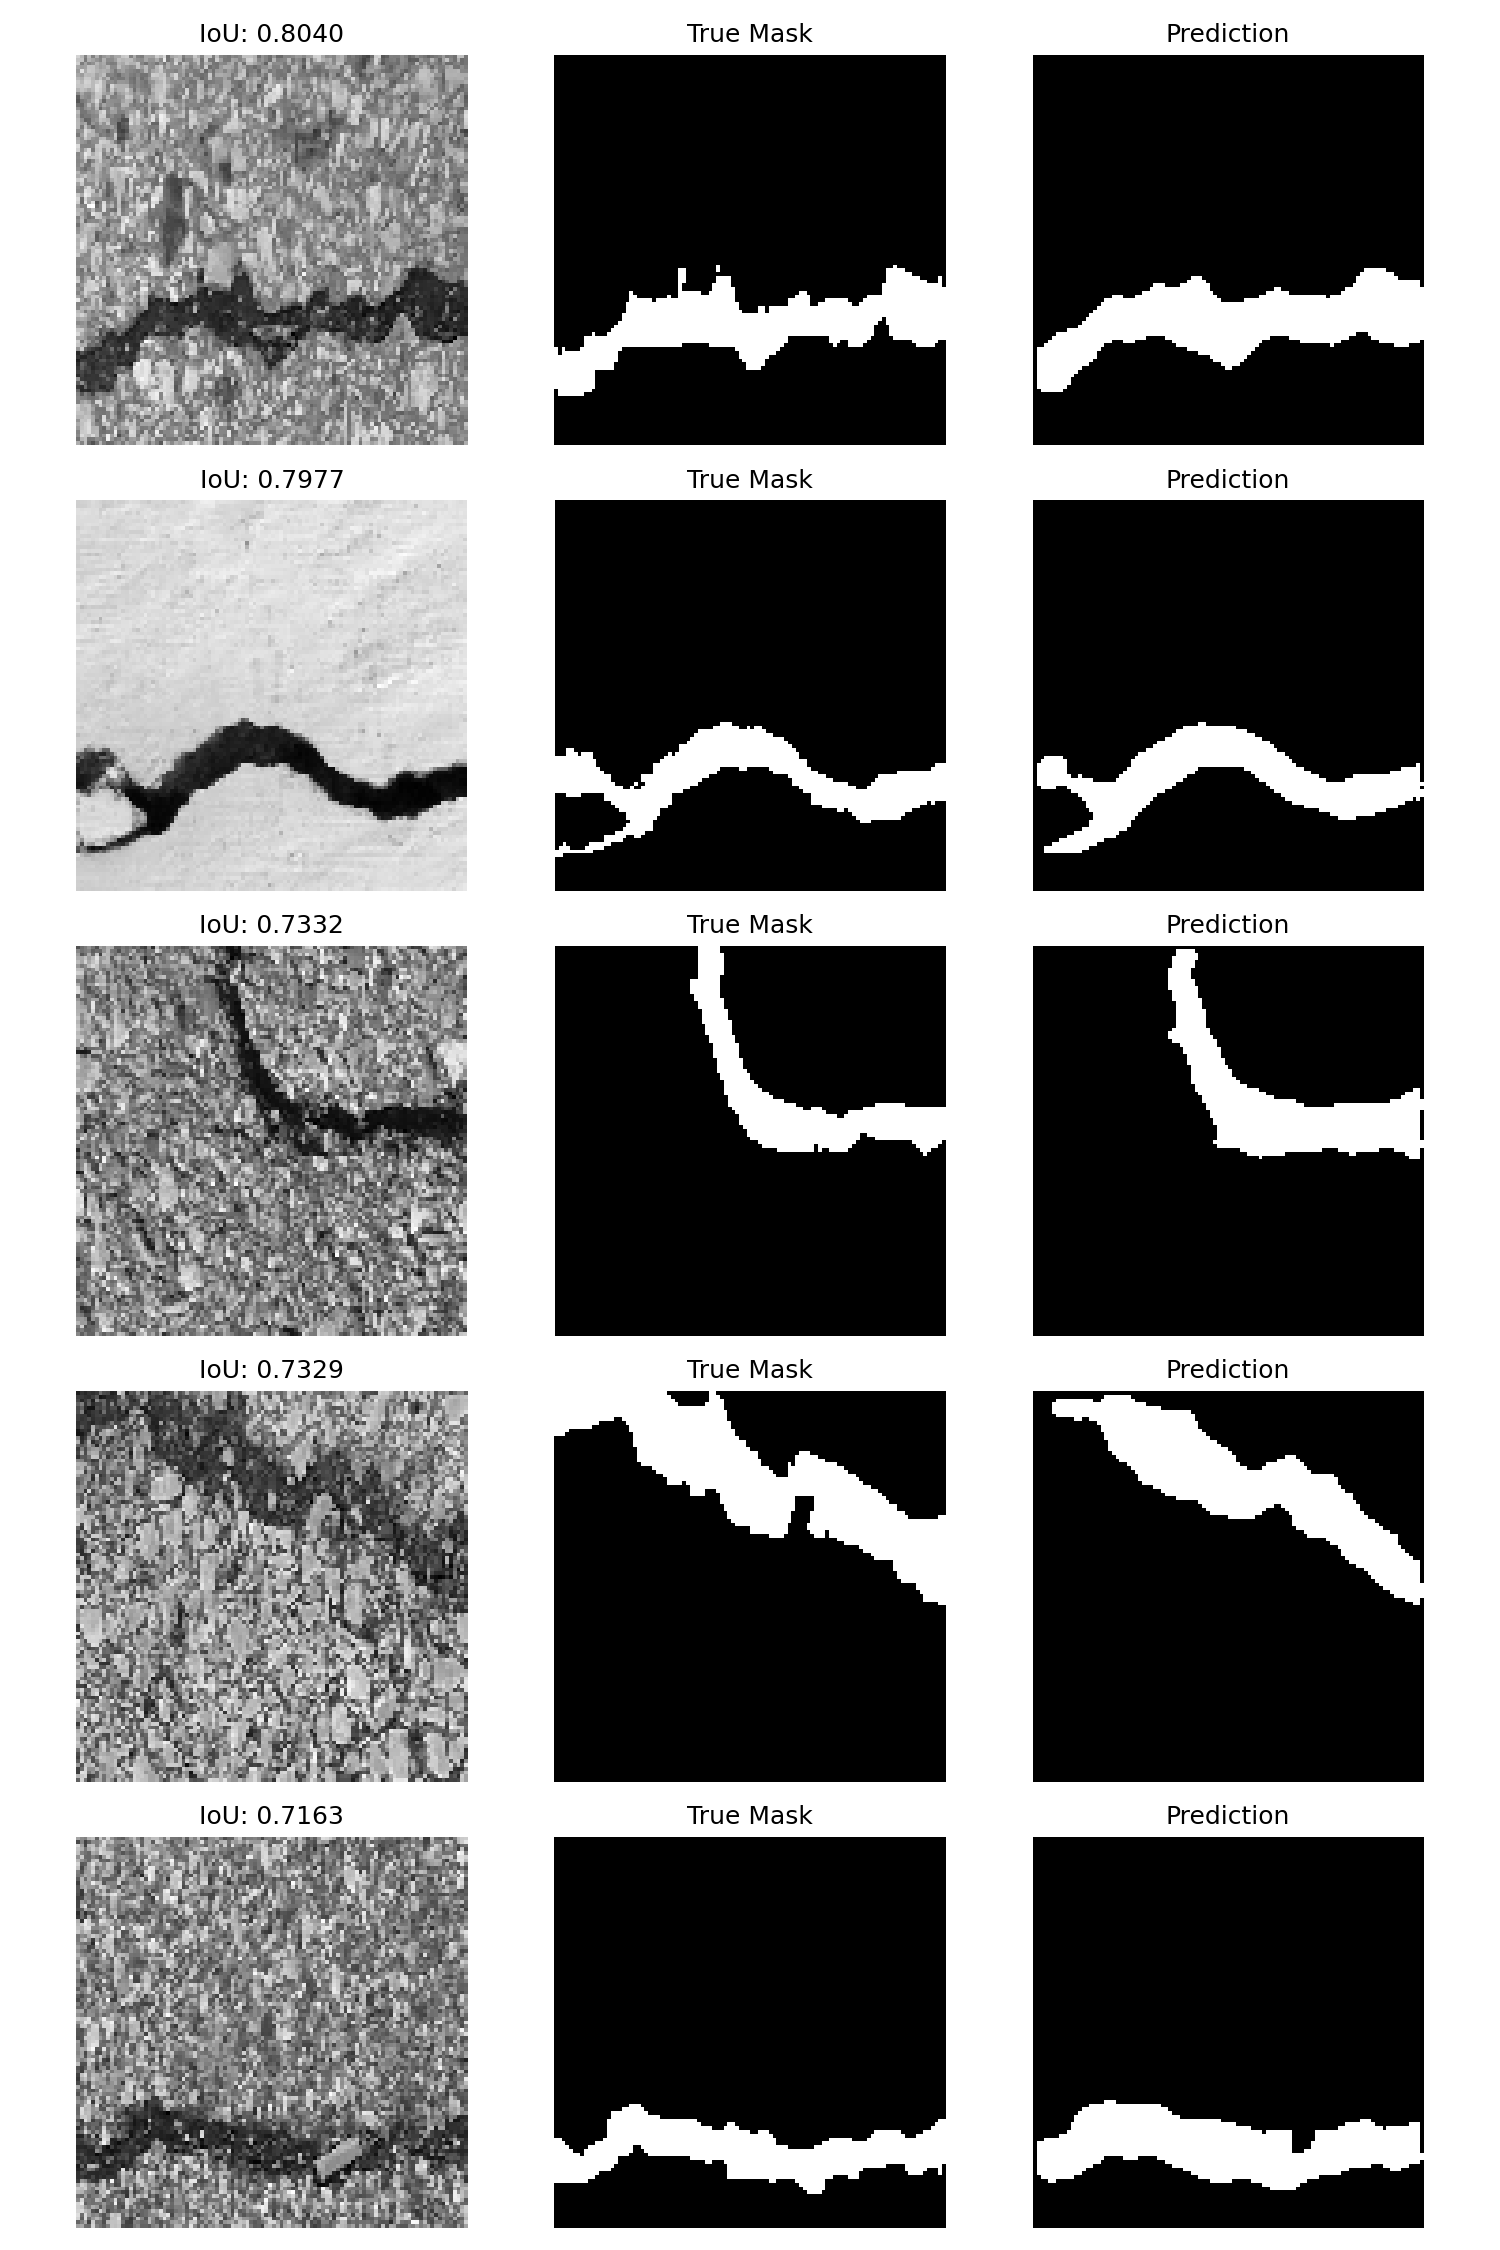
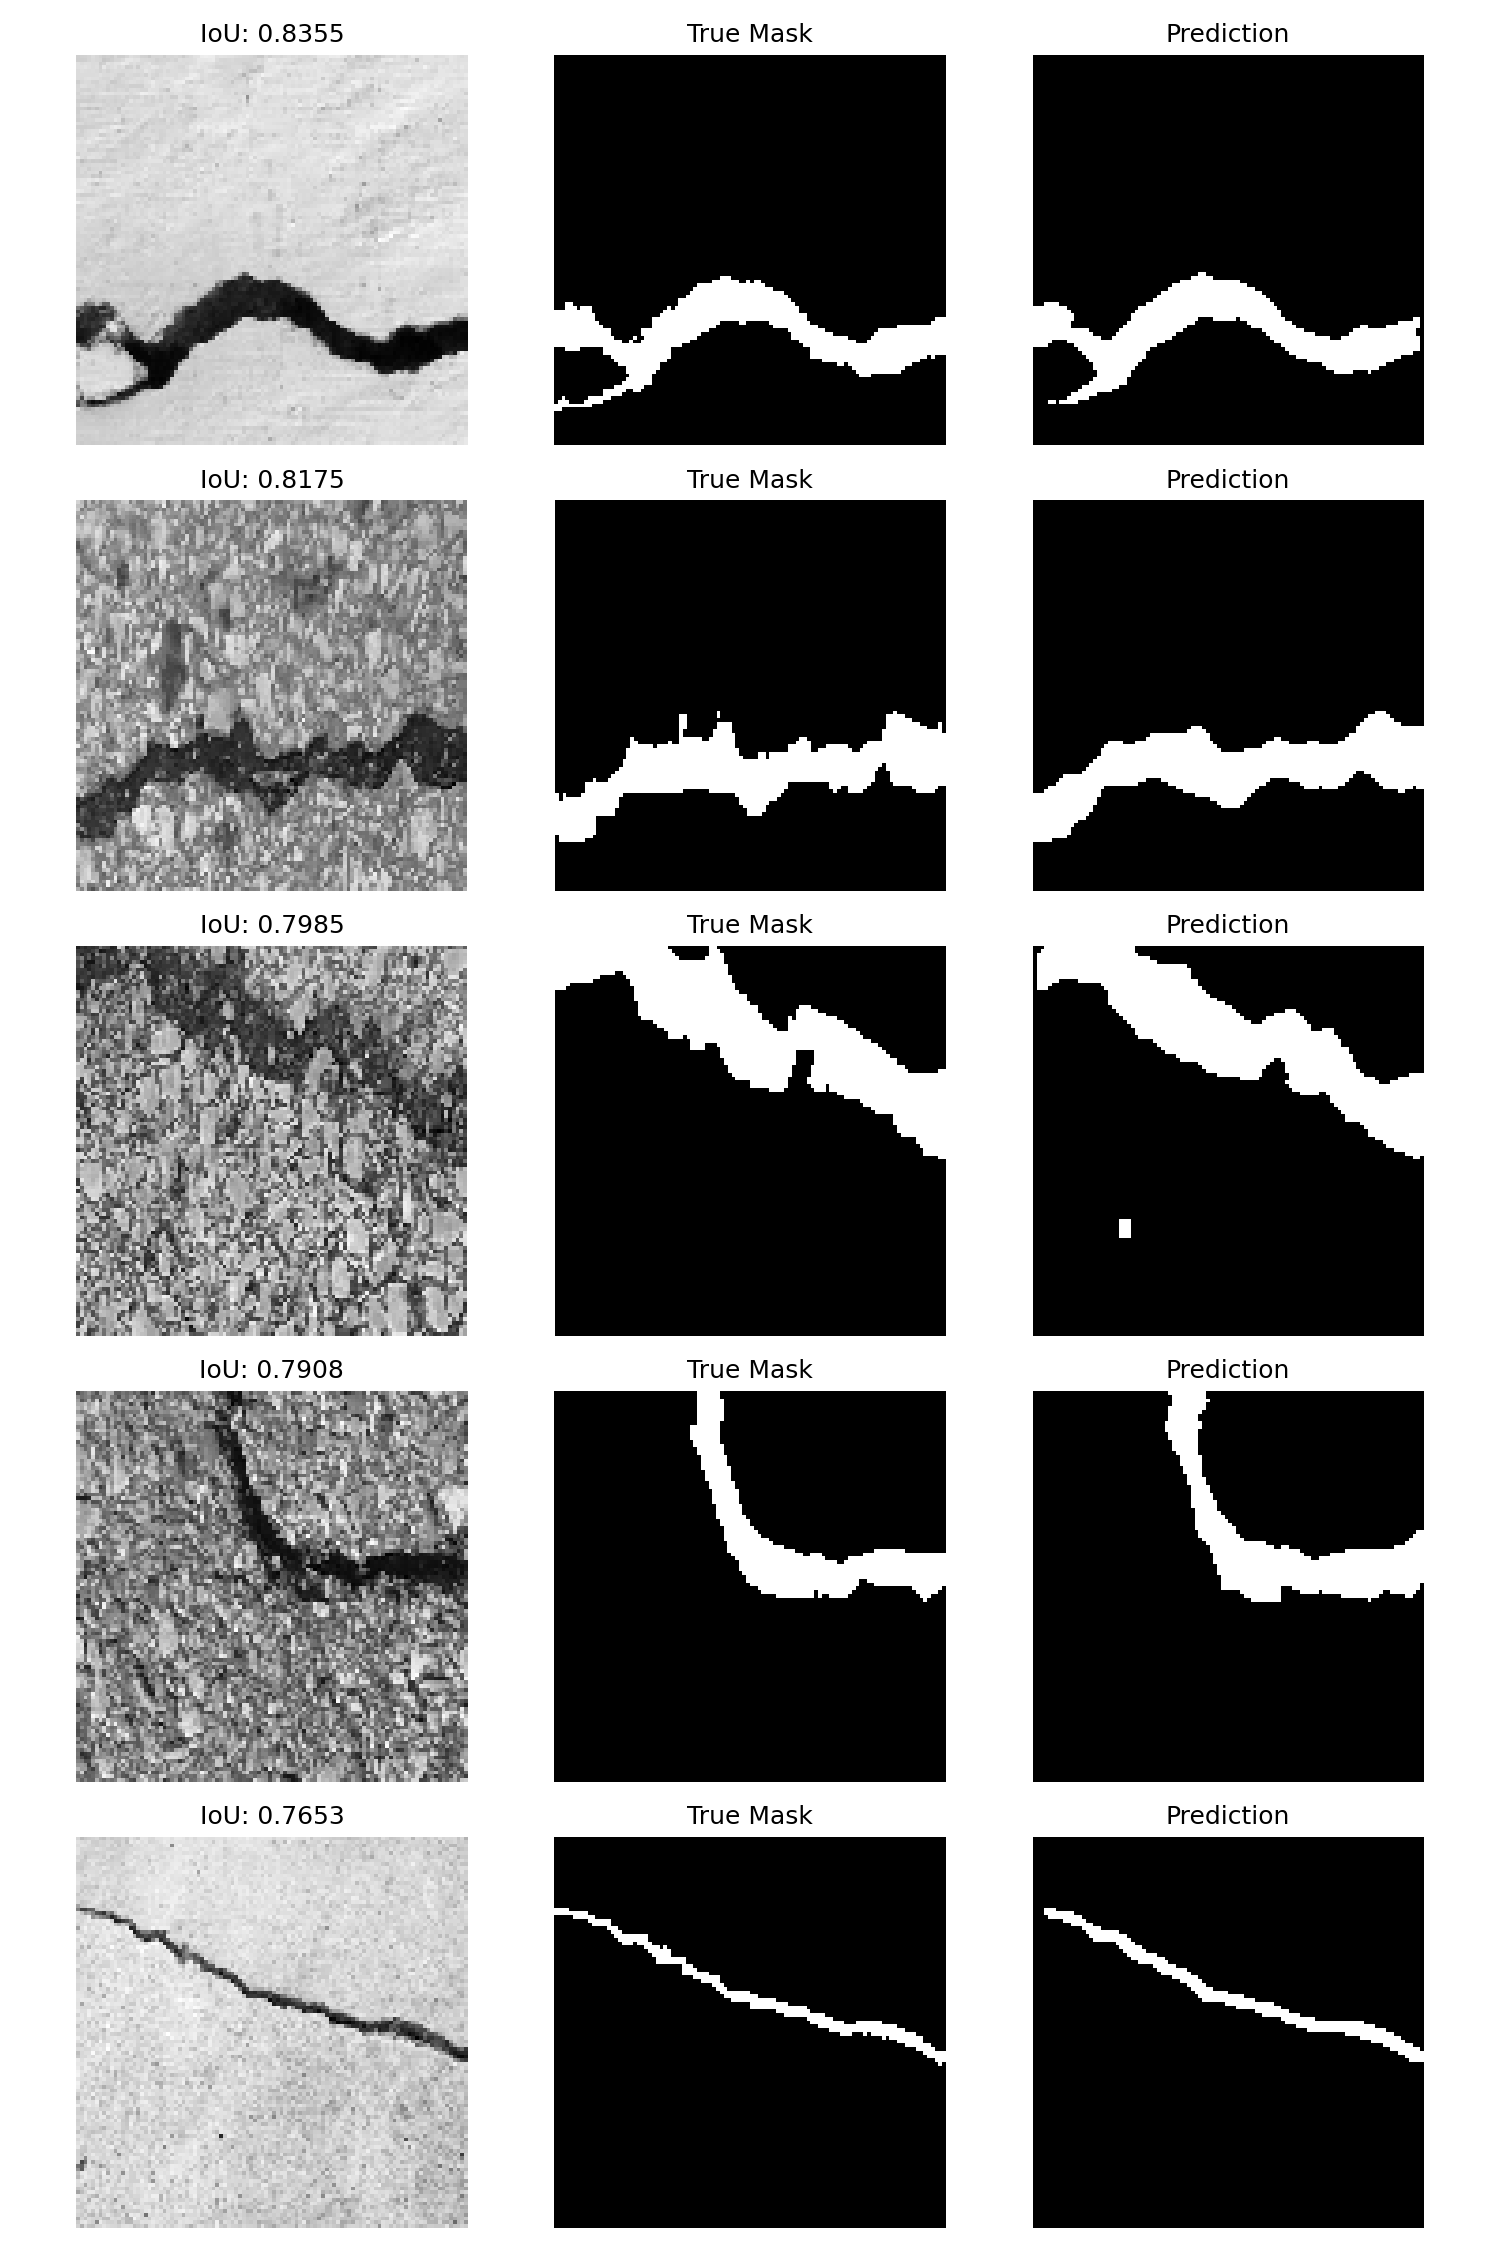
completed initial student training

diff --git a/NanoCrackSeg/train_student_pai.py b/NanoCrackSeg/train_student_pai.py
@@ -5,9 +5,14 @@ import matplotlib.pyplot as plt
 import torch
 import torch.nn as nn
 import torch.nn.functional as F
+from dotenv import load_dotenv
 from nano_crack_seg import NanoCrackSeg, rfkd_loss
+from perforatedai import globals_perforatedai as GPA
+from perforatedai import utils_perforatedai as UPA
 from torch.utils.data import DataLoader
 from tqdm import tqdm
+
+load_dotenv()
 
 TEACHER_PATH = Path(__file__).parent.parent / "UNet Teacher Model"
 sys.path.insert(0, str(TEACHER_PATH))
@@ -138,18 +143,14 @@ def save_prediction_samples(samples: list, save_dir: Path, filename: str) -> Non
     plt.close(fig)
 
 
-def train_student(
+def train_student_pai(
     dataset_dir: Path,
     teacher_weights_path: Path,
     save_dir: Path,
-    epochs: int = 150,
-    batch_size: int = 32,
     lr: float = 1e-3,
-    patience: int = 20,
 ) -> NanoCrackSeg:
     save_dir.mkdir(parents=True, exist_ok=True)
 
-    # Optimized for M3 Pro
     device = torch.device("mps" if torch.backends.mps.is_available() else "cpu")
     print(f"Training on: {device}")
 
@@ -158,30 +159,46 @@ def train_student(
     )
     train_loader = DataLoader(
         train_dataset,
-        batch_size=batch_size,
+        batch_size=32,
         shuffle=True,
         num_workers=4,
         pin_memory=False,
     )
-    val_loader = DataLoader(val_dataset, batch_size=batch_size, shuffle=False)
+    val_loader = DataLoader(val_dataset, batch_size=32, shuffle=False)
 
     teacher = UNet(in_channels=1, base_filters=48).to(device).eval()
     teacher.load_state_dict(torch.load(teacher_weights_path, map_location=device))
     for p in teacher.parameters():
         p.requires_grad = False
 
-    student = NanoCrackSeg().to(device)
+    # --- PAI: track BatchNorm2d layers (inside DWConvBlock.dw_conv[2]) ---
+    # They are wrapped inside the Sequential already so just tracking is sufficient
+    GPA.pc.append_modules_to_track([nn.BatchNorm2d])
+    GPA.pc.set_unwrapped_modules_confirmed(True)
+
+    # --- PAI: perforate before moving to device ---
+    student = NanoCrackSeg()
+    student = UPA.perforate_model(
+        student, save_name="PAI_student", maximizing_score=True
+    )
+    student = student.to(device)
+
     adaptors = FeatureAdaptors().to(device)
 
     t_hooks = FeatureExtractor(teacher, ["enc1", "enc2", "enc3"])
     s_hooks = FeatureExtractor(student, ["enc1", "enc2", "enc3"])
 
-    optimizer = torch.optim.AdamW(
-        list(student.parameters()) + list(adaptors.parameters()),
-        lr=lr,
-        weight_decay=1e-2,
+    # --- PAI: optimizer for student only (adaptors are not perforated) ---
+    # Note: weight_decay removed — PAI docs warn it can interfere with dendrite learning
+    GPA.pai_tracker.set_optimizer(torch.optim.AdamW)
+    GPA.pai_tracker.set_scheduler(torch.optim.lr_scheduler.ReduceLROnPlateau)
+    optimArgs = {"params": list(student.parameters()), "lr": lr}
+    schedArgs = {"mode": "max", "patience": 5}
+    optimizer, _ = GPA.pai_tracker.setup_optimizer(
+        student, optimArgs, schedArgs
     )
-    scheduler = torch.optim.lr_scheduler.CosineAnnealingLR(optimizer, T_max=epochs)
+    # Separate optimizer for adaptors so PAI doesn't see untracked params
+    adaptors_optimizer = torch.optim.AdamW(adaptors.parameters(), lr=lr)
 
     history = {
         k: []
@@ -196,19 +213,22 @@ def train_student(
             "val_map",
         ]
     }
-    best_val_f1 = 0.0
-    patience_counter = 0
 
-    for epoch in range(epochs):
+    # --- PAI: while(True) loop instead of fixed epoch range ---
+    epoch = -1
+    while True:
+        epoch += 1
+
         student.train()
         adaptors.train()
         train_loss_accum = 0.0
 
         for images, masks in tqdm(
-            train_loader, desc=f"Epoch {epoch + 1}/{epochs} [Train]", leave=False
+            train_loader, desc=f"Epoch {epoch + 1} [Train]", leave=False
         ):
             images, masks = images.to(device), masks.to(device)
             optimizer.zero_grad(set_to_none=True)
+            adaptors_optimizer.zero_grad(set_to_none=True)
 
             t_hooks.clear()
             s_hooks.clear()
@@ -230,6 +250,7 @@ def train_student(
 
             torch.nn.utils.clip_grad_norm_(student.parameters(), max_norm=1.0)
             optimizer.step()
+            adaptors_optimizer.step()
             train_loss_accum += loss.item()
 
         # Validation
@@ -282,13 +303,15 @@ def train_student(
                     t_ap += compute_ap(probs[j], masks[j])
                     t_img_cnt += 1
 
-        # Log Metrics
+        # Metrics
         prec = t_tp / (t_tp + t_fp + 1e-8)
         rec = t_tp / (t_tp + t_fn + 1e-8)
         f1 = 2 * prec * rec / (prec + rec + 1e-8)
+        avg_train_loss = train_loss_accum / len(train_loader)
+        avg_val_loss = v_loss / len(val_loader)
 
-        history["train_loss"].append(train_loss_accum / len(train_loader))
-        history["val_loss"].append(v_loss / len(val_loader))
+        history["train_loss"].append(avg_train_loss)
+        history["val_loss"].append(avg_val_loss)
         history["val_f1"].append(f1)
         history["val_iou"].append(t_tp / (t_tp + t_fp + t_fn + 1e-8))
         history["val_prec"].append(prec)
@@ -297,7 +320,7 @@ def train_student(
         history["val_map"].append(t_ap / t_img_cnt)
 
         print(
-            f"Epoch {epoch + 1:03d} | Train Loss: {history['train_loss'][-1]:.4f} | F1: {f1:.4f} | IoU: {history['val_iou'][-1]:.4f}"
+            f"Epoch {epoch + 1:03d} | Train Loss: {avg_train_loss:.4f} | F1: {f1:.4f} | IoU: {history['val_iou'][-1]:.4f}"
         )
 
         # Plots and Samples
@@ -307,26 +330,37 @@ def train_student(
             best_samples, save_dir, "best_validation_predictions.png"
         )
 
-        # Checkpoint and Early Stopping
-        if f1 > best_val_f1:
-            best_val_f1 = f1
-            patience_counter = 0
-            torch.save(student.state_dict(), save_dir / "student_nano_crack_seg.pth")
-            print("  [Saved Best Model]")
-        else:
-            patience_counter += 1
-            if patience_counter >= patience:
-                print("Early stopping triggered.")
-                break
+        # --- PAI: extra scores for graphing ---
+        GPA.pai_tracker.add_extra_score(avg_train_loss, "Train Loss")
+        GPA.pai_tracker.add_extra_score_without_graphing(avg_val_loss, "Val Loss")
 
-        scheduler.step()
+        # --- PAI: drive the training loop ---
+        student, restructured, training_complete = GPA.pai_tracker.add_validation_score(
+            f1, student
+        )
+        student.to(device)
+
+        if training_complete:
+            torch.save(
+                student.state_dict(), save_dir / "student_nano_crack_seg_pai.pth"
+            )
+            print("PAI training complete. Best model saved.")
+            break
+        elif restructured:
+            # Reinitialize PAI optimizer with expanded student params after dendrites added
+            optimArgs = {"params": list(student.parameters()), "lr": lr}
+            schedArgs = {"mode": "max", "patience": 5}
+            optimizer, _ = GPA.pai_tracker.setup_optimizer(
+                student, optimArgs, schedArgs
+            )
+            # adaptors_optimizer is unchanged — adaptors are not restructured
 
     return student
 
 
 if __name__ == "__main__":
-    train_student(
+    train_student_pai(
         dataset_dir=Path("SubDataset"),
         teacher_weights_path=Path("results/teacher/teacher_unet.pth"),
-        save_dir=Path("results/student"),
+        save_dir=Path("results/student_pai"),
     )

diff --git a/NanoCrackSeg/nano_crack_seg.py b/NanoCrackSeg/nano_crack_seg.py
@@ -1,4 +1,3 @@
-import matplotlib.pyplot as plt
 import torch
 import torch.nn as nn
 import torch.nn.functional as F
